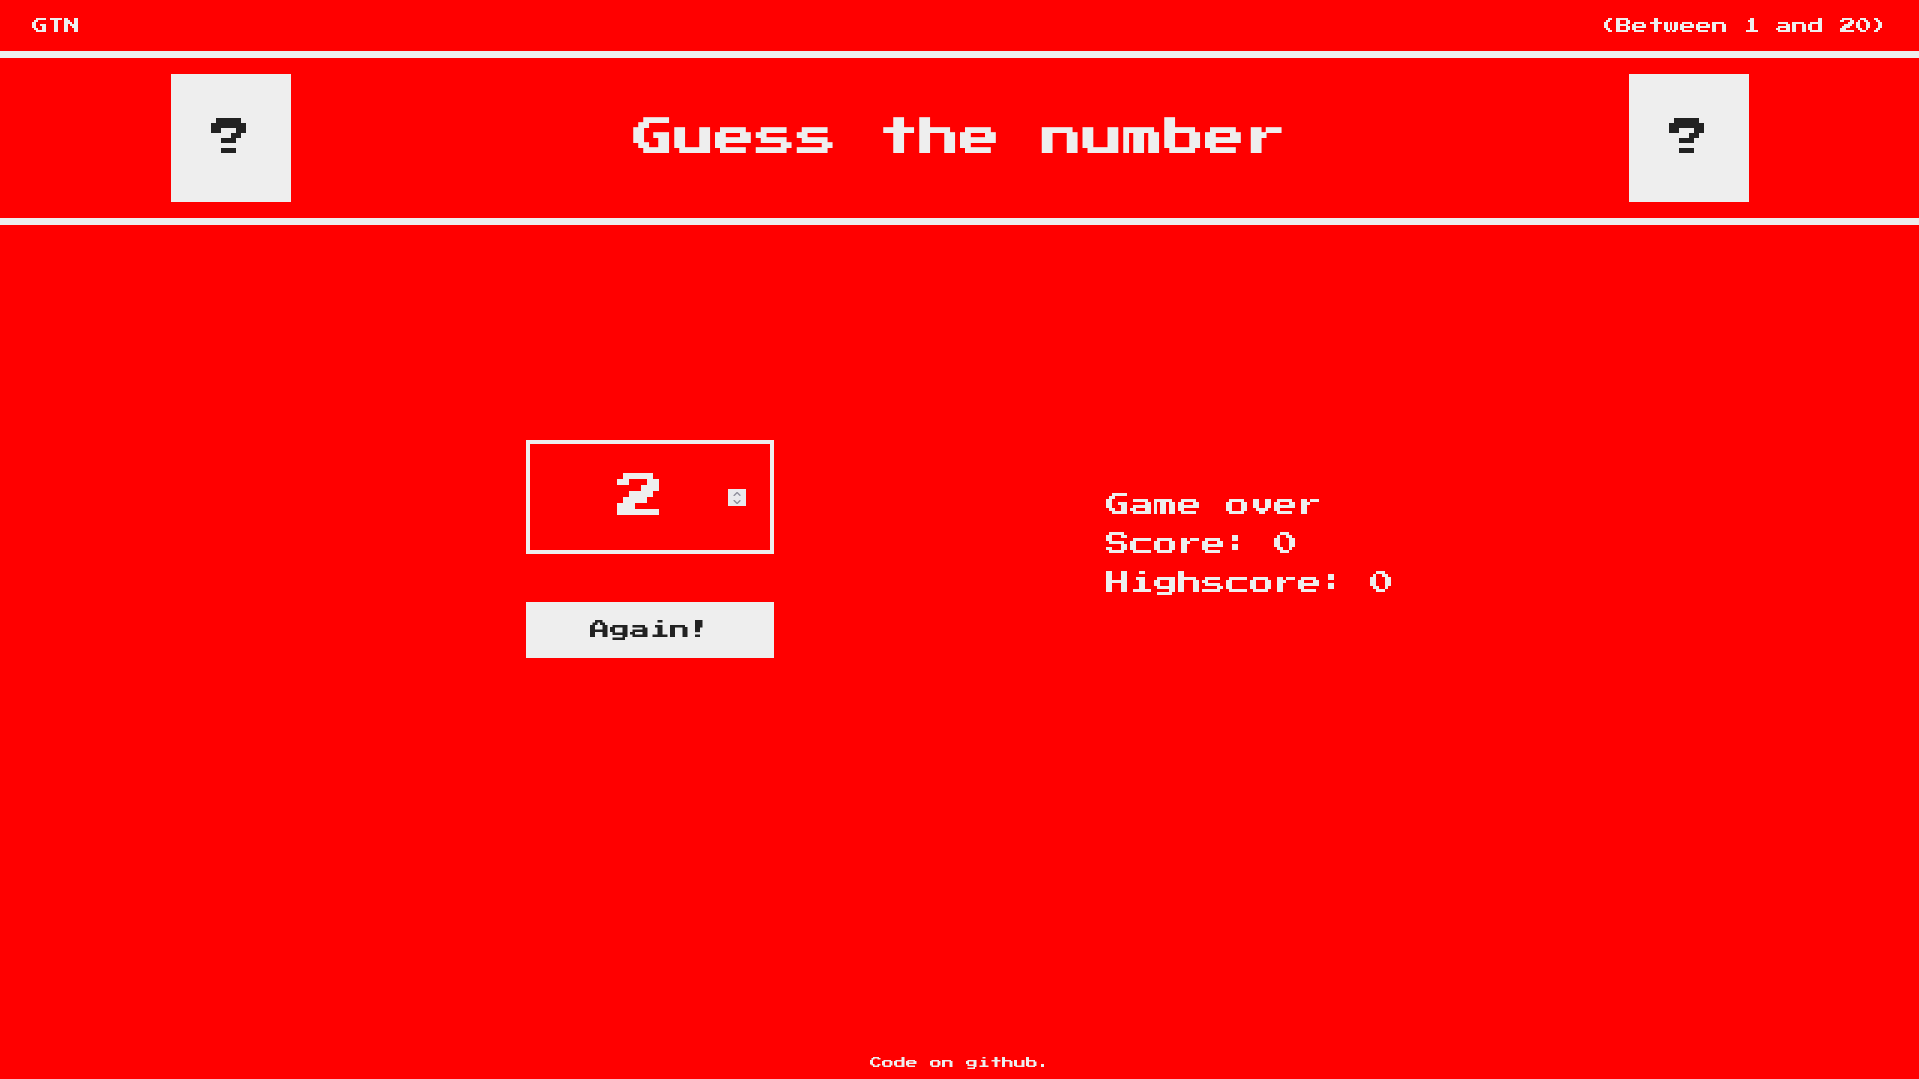
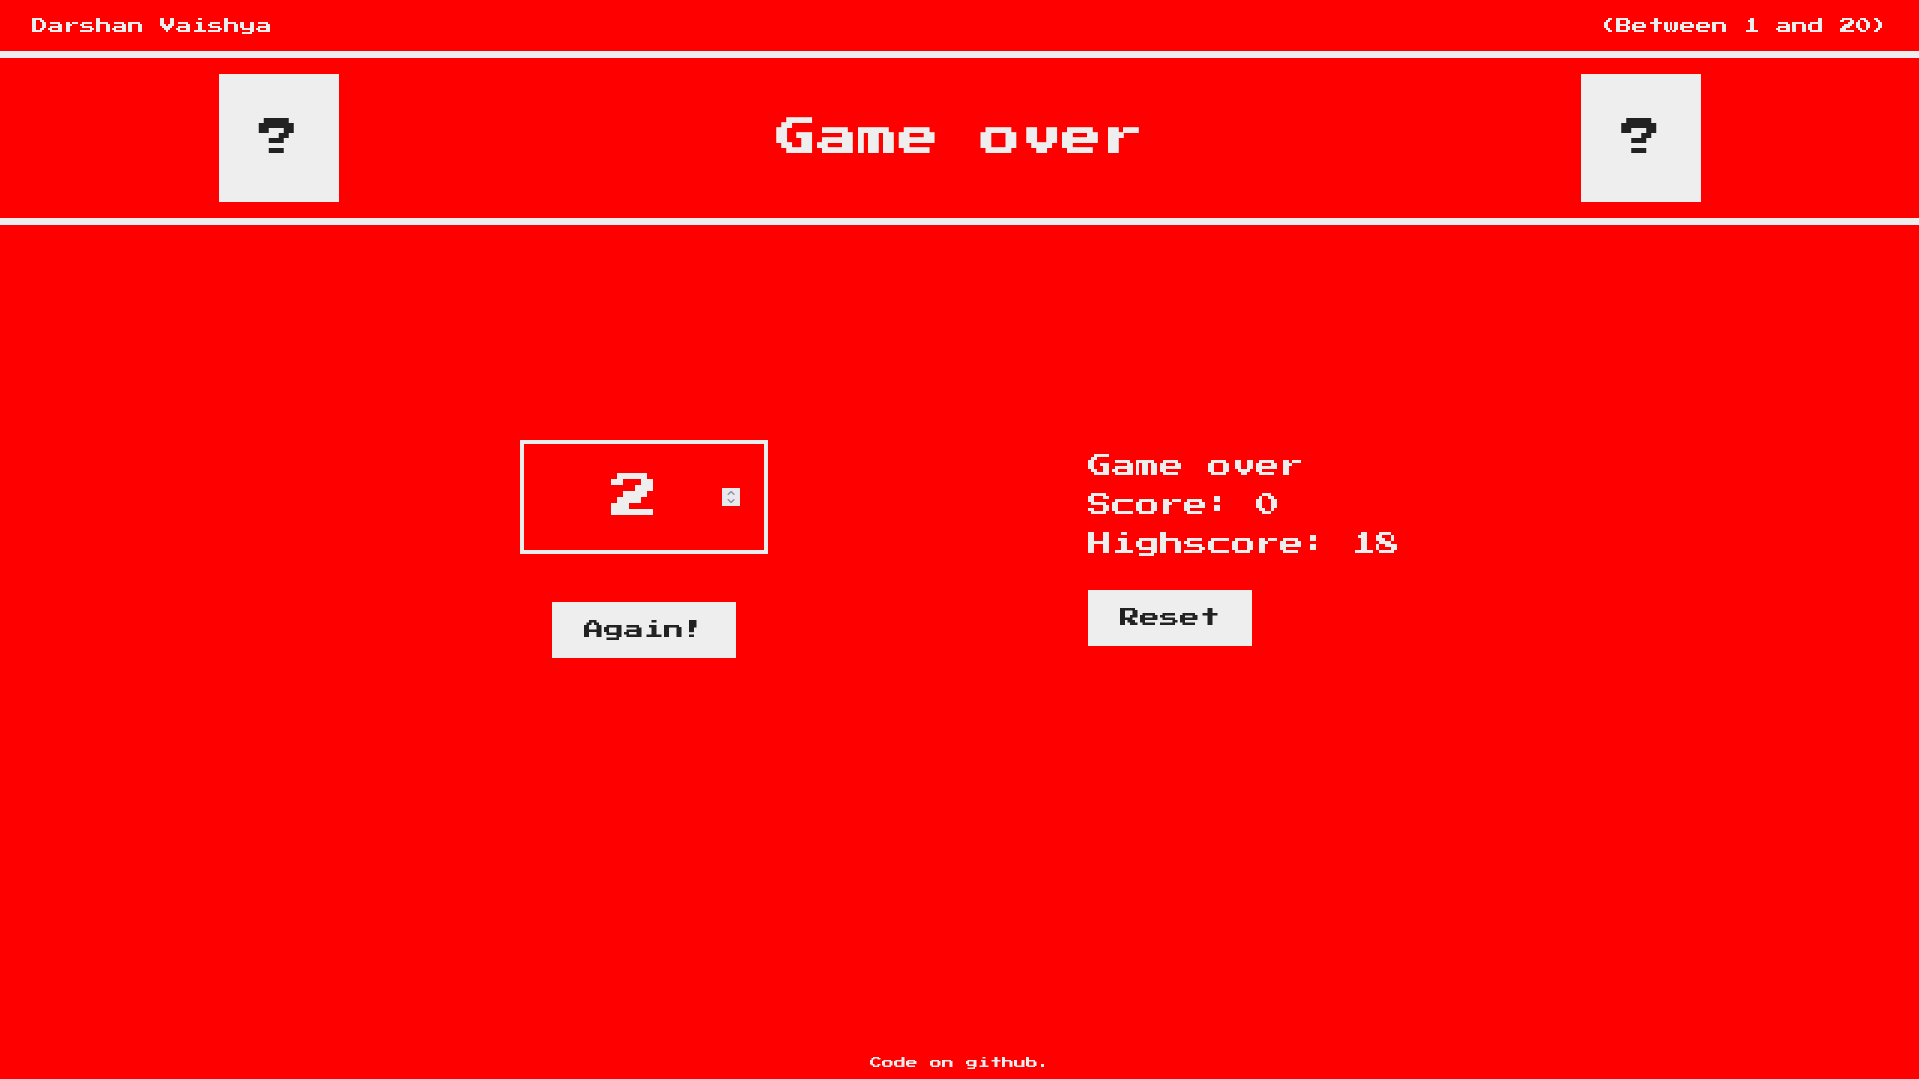
Final commit

diff --git a/script.js b/script.js
@@ -27,12 +27,15 @@ document.querySelector(".check").addEventListener("click", () => {
 
 		document.querySelector(".check").style.display = "none";
 		document.querySelector(".again").style.display = "block";
+		document.querySelector(".title").textContent = "Game over";
 		return;
 	}
 
 	const guess = +document.querySelector(".guess").value;
 	if (!guess) {
 		displayMessage("No number!");
+	} else if (guess < 1 || guess > 20) {
+		displayMessage("Must be between 1 and 20");
 	} else if (guess === secretNumber) {
 		displayMessage("Correct number");
 		document.querySelector("body").style.backgroundColor = "#60b347";
@@ -52,6 +55,7 @@ document.querySelector(".check").addEventListener("click", () => {
 
 		document.querySelector(".check").style.display = "none";
 		document.querySelector(".again").style.display = "block";
+		document.querySelector(".title").textContent = "Correct number";
 	} else {
 		displayMessage(guess > secretNumber ? "Too high" : "Too low");
 		scoreEl.textContent = --score;
@@ -73,4 +77,10 @@ document.querySelector(".btn.again").addEventListener("click", () => {
 
 	document.querySelector(".again").style.display = "none";
 	document.querySelector(".check").style.display = "block";
+	document.querySelector(".title").textContent = "Guess the number";
+});
+
+document.querySelector(".btn.reset").addEventListener("click", () => {
+	localStorage.removeItem("highscore");
+	document.querySelector(".highscore").textContent = "0";
 });

diff --git a/index.html b/index.html
@@ -11,7 +11,7 @@
 	<body>
 		<header class="header">
 			<nav class="nav">
-				<span>GTN</span>
+				<span>Darshan Vaishya</span>
 				<span>(Between 1 and 20)</span>
 			</nav>
 			<div class="heading">
@@ -33,13 +33,18 @@
 					<p class="label-highscore">
 						Highscore: <span class="highscore">0</span>
 					</p>
+					<button class="btn reset">Reset</button>
 				</section>
 			</div>
 		</main>
 		<footer>
 			<p>
-				Code on
-				<a href="https://github.com/DarshanVaishya" target="_blank">github</a>.
+				<a
+					href="https://github.com/DarshanVaishya/guess-the-number"
+					target="_blank"
+				>
+					Code on github</a
+				>.
 			</p>
 		</footer>
 		<script src="script.js"></script>

diff --git a/style.css b/style.css
@@ -13,6 +13,7 @@ html {
 body {
 	color: #eee;
 	background-color: #222;
+	transition: background-color 1s linear;
 }
 
 .container {
@@ -73,6 +74,7 @@ main .container {
 .left {
 	display: flex;
 	flex-direction: column;
+	align-items: center;
 }
 
 .left .again {
@@ -121,4 +123,8 @@ footer {
 
 .right p {
 	margin-bottom: 10px;
+}
+
+.right p:last-of-type {
+	margin-bottom: 2rem;
 }

diff --git a/queries.css b/queries.css
@@ -11,6 +11,11 @@
 	main .container {
 		flex-direction: column;
 	}
+
+	.btn.reset {
+		display: block;
+		margin: 0 auto;
+	}
 }
 
 @media (max-width: 31em) {

diff --git a/README.md b/README.md
@@ -1,6 +1,6 @@
 # Guess the number project (16th Dec, 2021)
 
-This project uses HTML, CSS and JS to create a simple game of guessing the number. It has a retro theme to it.
+This project uses HTML, CSS and JS to create a simple game of guessing the number. The highscore system uses local storage to store the data. This allows users to refresh and close the website and still keep their data. It has a retro theme to it.
 
 Live link: [Link](https://gtn.darshanvaishya.xyz/)
 
